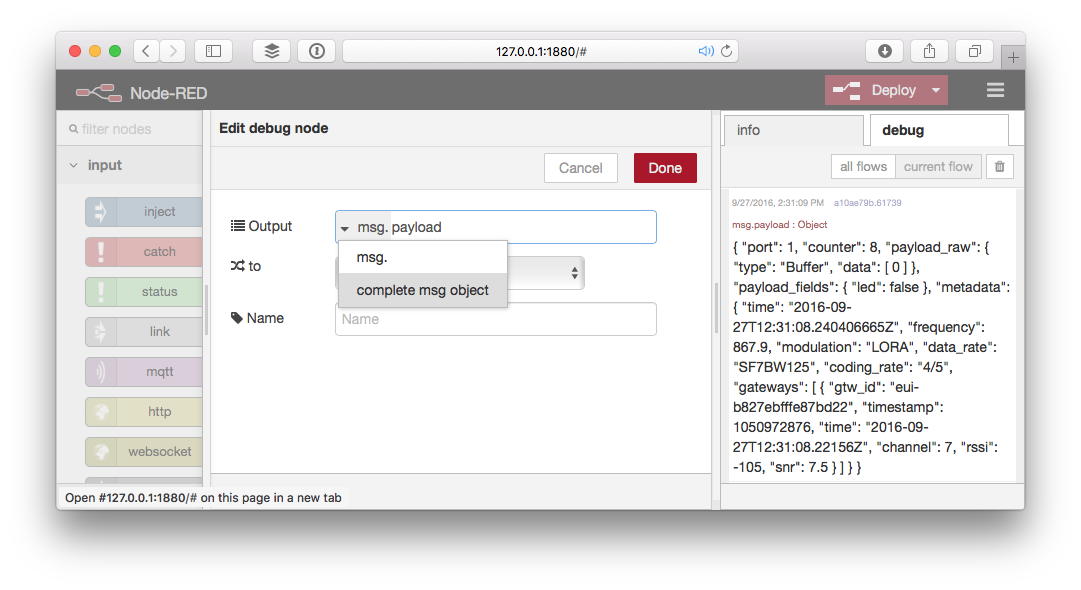
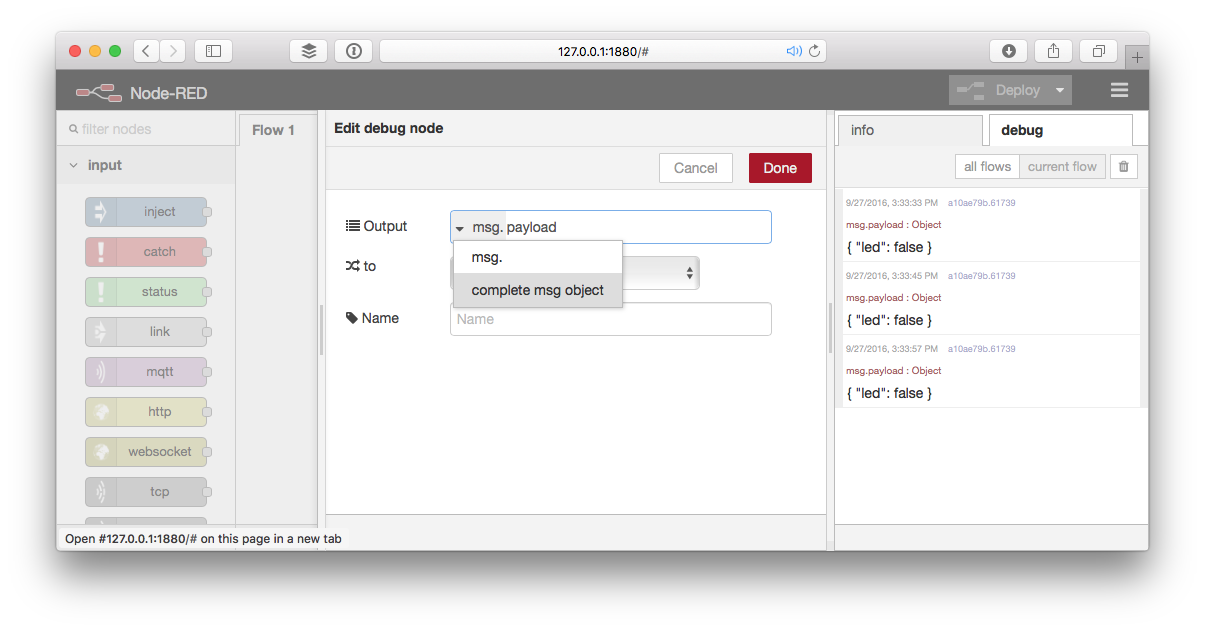
Update Node-RED guide

Changed region(s): [[0.0305, 0.061, 0.9769, 0.8847]]

diff --git a/_versions/refactor/node-red/_usage.md b/_versions/refactor/node-red/_usage.md
@@ -49,30 +49,7 @@ Messages sent by devices on the application can be received via the upper output
 
     ```json
     {
-    	"port": 1,
-    	"counter": 8,
-    	"payload_raw": {
-    		"type": "Buffer",
-    		"data": [0]
-    	},
-    	"payload_fields": {
-    		"led": false
-    	},
-    	"metadata": {
-    		"time": "2016-09-27T12:31:08.240406665Z",
-    		"frequency": 867.9,
-    		"modulation": "LORA",
-    		"data_rate": "SF7BW125",
-    		"coding_rate": "4/5",
-    		"gateways": [{
-    			"gtw_id": "eui-b827ebfffe87bd22",
-    			"timestamp": 1050972876,
-    			"time": "2016-09-27T12:31:08.22156Z",
-    			"channel": 7,
-    			"rssi": -105,
-    			"snr": 7.5
-    		}]
-    	}
+    	"led": false
     }
     ```
     
@@ -83,38 +60,39 @@ Messages sent by devices on the application can be received via the upper output
     
     ![Output complete msg object](node-red-debug-edit.png)
     
-8.  Click **Deploy** to see the next message in full, including the `devId`:
+8.  Click **Deploy** to see the next message in full, including `devId`:
 
     ```json
     {
-    	"devId": "my-uno",
-    	"payload": {
-    		"port": 1,
-    		"counter": 31,
-    		"payload_raw": {
-    			"type": "Buffer",
-    			"data": [0]
-    		},
-    		"payload_fields": {
-    			"led": false
-    		},
-    		"metadata": {
-    			"time": "2016-09-27T12:35:46.8640105Z",
-    			"frequency": 867.1,
-    			"modulation": "LORA",
-    			"data_rate": "SF7BW125",
-    			"coding_rate": "4/5",
-    			"gateways": [{
-    				"gtw_id": "eui-b827ebfffe87bd22",
-    				"timestamp": 1329587859,
-    				"time": "2016-09-27T12:35:46.842692Z",
-    				"channel": 3,
-    				"rssi": -111,
-    				"snr": 6.2
-    			}]
-    		}
-    	},
-    	"_msgid": "426db946.bd9248"
+      "port": 1,
+      "counter": 31,
+      "payload_raw": {
+        "type": "Buffer",
+        "data": [0]
+      },
+      "payload_fields": {
+        "led": false
+      },
+      "metadata": {
+        "time": "2016-09-27T12:35:46.8640105Z",
+        "frequency": 867.1,
+        "modulation": "LORA",
+        "data_rate": "SF7BW125",
+        "coding_rate": "4/5",
+        "gateways": [{
+          "gtw_id": "eui-b827ebfffe87bd22",
+          "timestamp": 1329587859,
+          "time": "2016-09-27T12:35:46.842692Z",
+          "channel": 3,
+          "rssi": -111,
+          "snr": 6.2
+        }]
+      },
+      "devId": "my-uno",
+      "payload": {
+        "led": false
+      },
+      "_msgid": "426db946.bd9248"
     }
     ```
 
@@ -127,28 +105,27 @@ Device activations are sent from the lower node output.
 
     ```json
     {
-      "devId": "my-uno",
-      "payload": {
-        "app_eui": "70B3D57EF000001C",
-        "dev_eui": "0004A30B001B7AD2",
-        "dev_addr": "26012084",
-        "metadata": {
-          "time": "2016-09-08T14:04:52.755064047Z",
-          "frequency": 868.5,
-          "modulation": "LORA",
-          "data_rate": "SF7BW125",
-          "coding_rate": "4/5",
-          "gateways": [{
-            "eui": "B827EBFFFE87BD22",
-            "timestamp": 1528942955,
-            "time": "2016-09-08T14:04:52.716713Z",
-            "channel": 2,
-            "rssi": -57,
-            "snr": 7.5,
-            "rf_chain": 1
-          }]
-        }
+      "app_eui": "70B3D57EF000001C",
+      "dev_eui": "0004A30B001B7AD2",
+      "dev_addr": "26012084",
+      "metadata": {
+        "time": "2016-09-08T14:04:52.755064047Z",
+        "frequency": 868.5,
+        "modulation": "LORA",
+        "data_rate": "SF7BW125",
+        "coding_rate": "4/5",
+        "gateways": [{
+          "eui": "B827EBFFFE87BD22",
+          "timestamp": 1528942955,
+          "time": "2016-09-08T14:04:52.716713Z",
+          "channel": 2,
+          "rssi": -57,
+          "snr": 7.5,
+          "rf_chain": 1
+        }]
       },
+      "devId": "my-uno",
+      "payload": "my-uno",
       "_msgid": "10d6a2ba.ef295d"
     }
     ```

diff --git a/_versions/refactor/node-red/_quickstart.md b/_versions/refactor/node-red/_quickstart.md
@@ -54,7 +54,7 @@ If you haven't done so already, follow [Setup](#setup) and [Usage / Configure](#
     ```javascript
     return {
         payload: {
-            value1: msg.payload.payload_fields.led ? 'on' : 'off'
+            value1: msg.payload.led ? 'on' : 'off'
         }
     };
     ```
